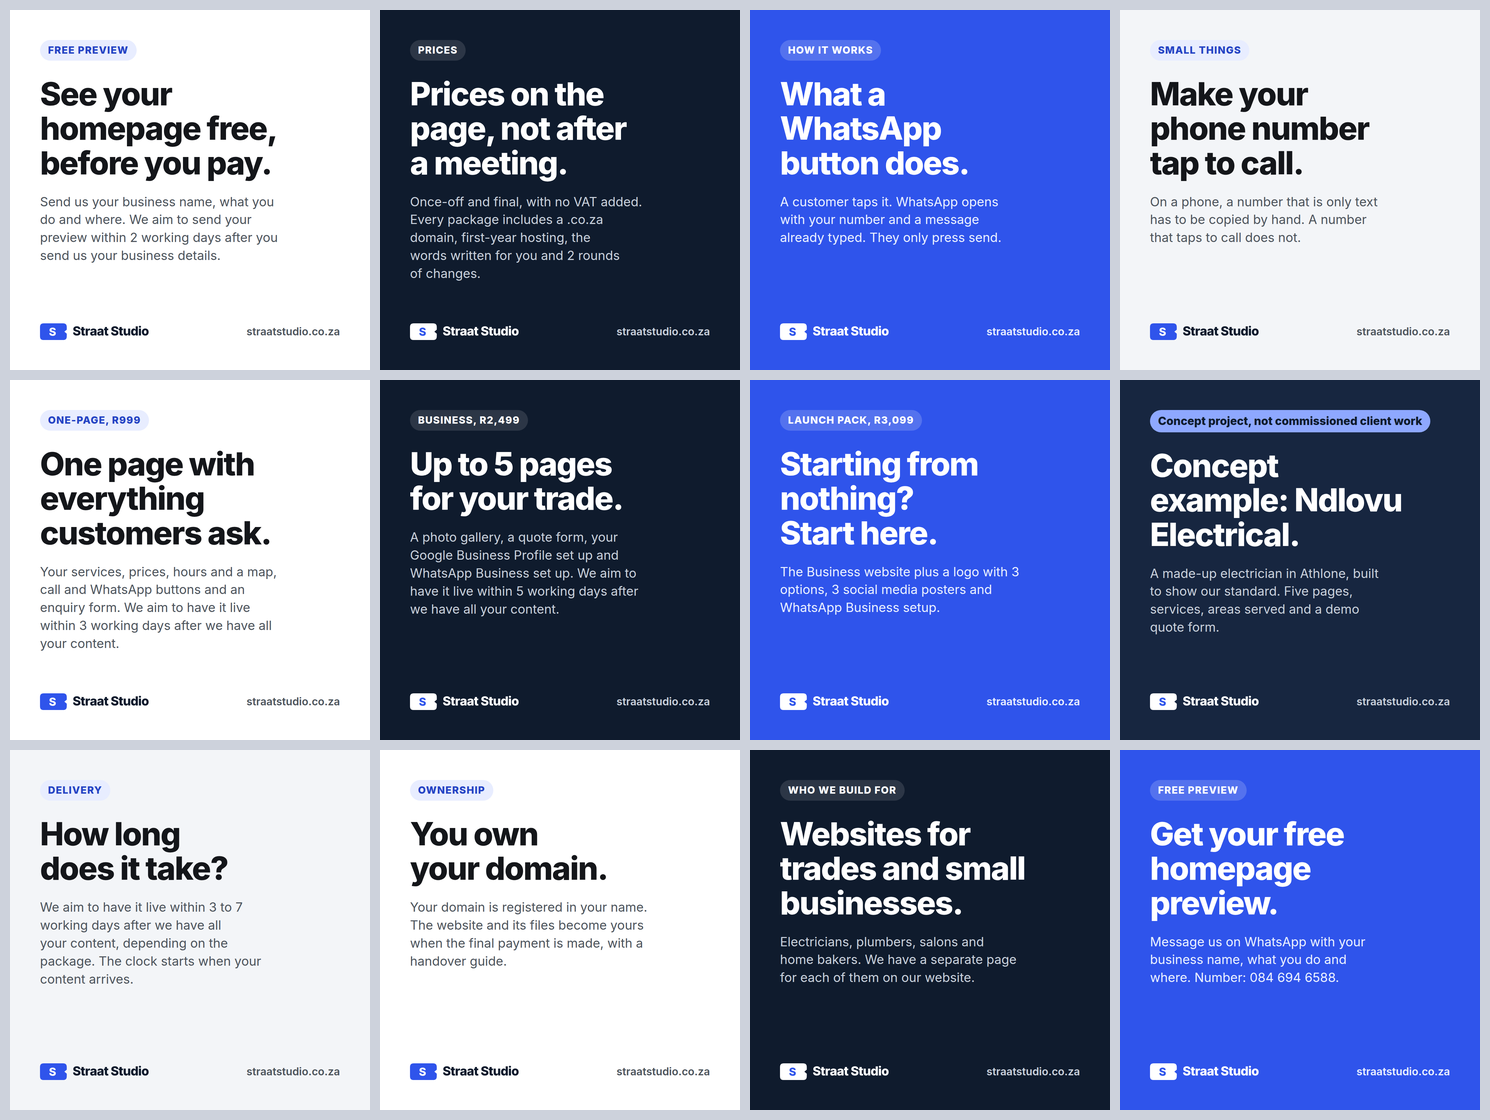
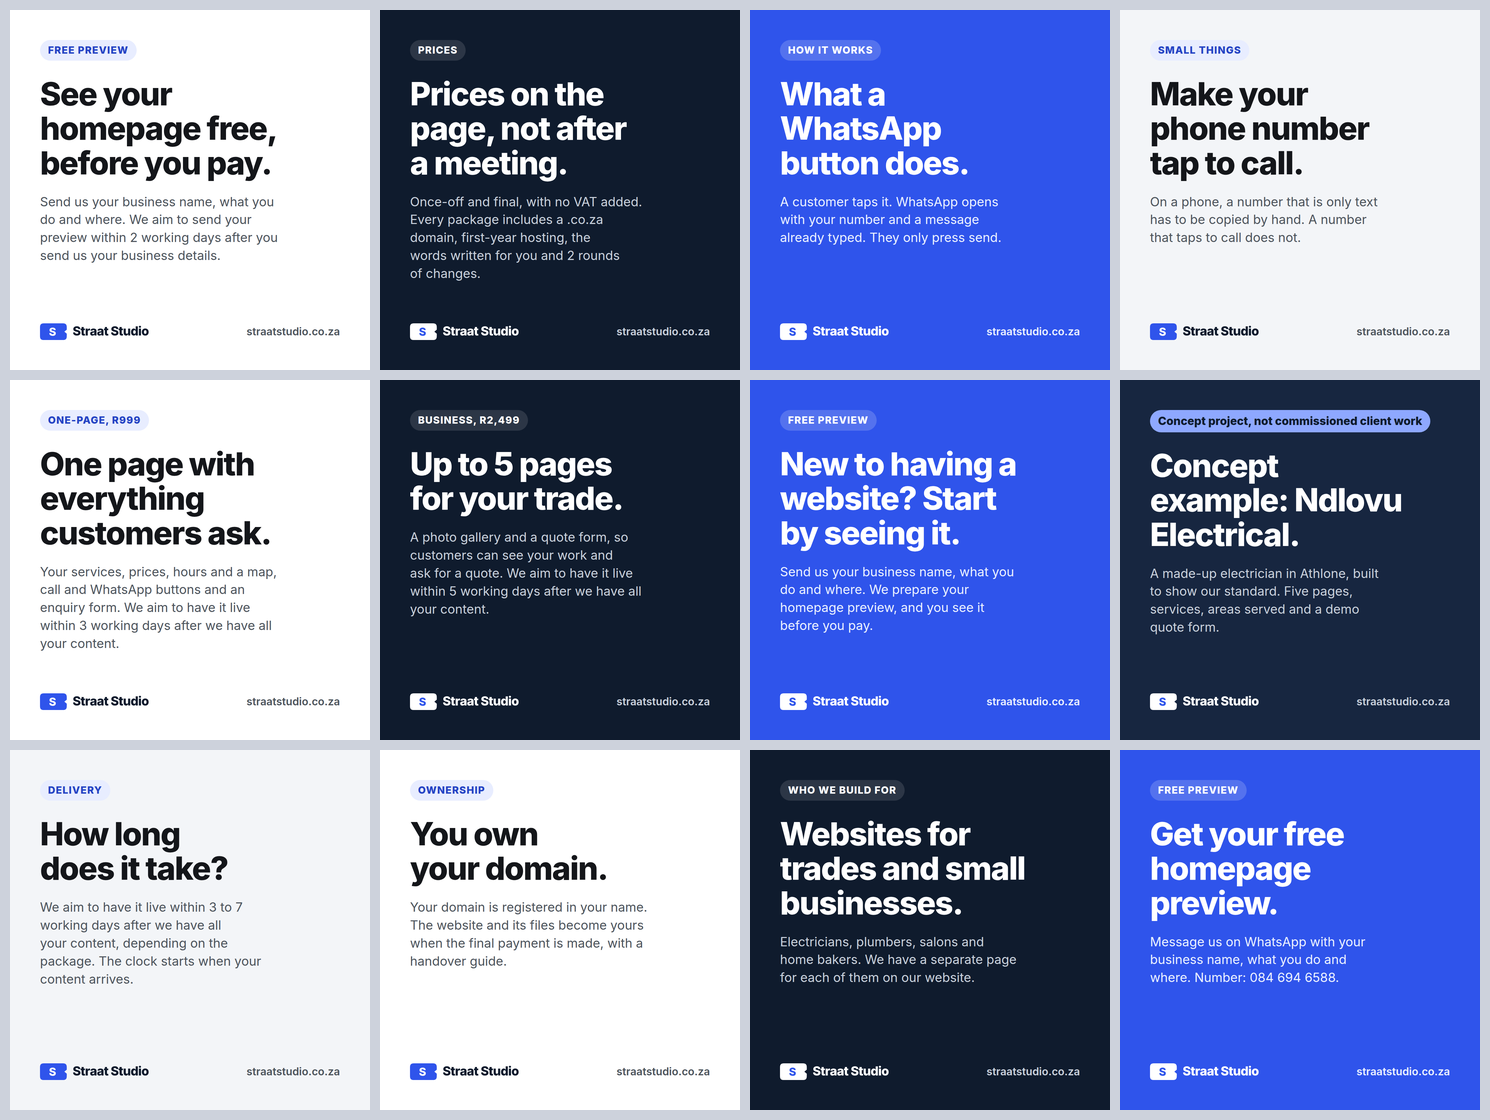
Rewrite two sample posts so they do not mention untested services

Changed region(s): [[0.5248, 0.3438, 0.6792, 0.5625], [0.2779, 0.4688, 0.4322, 0.5625]]

diff --git a/service-tests/LOG.md b/service-tests/LOG.md
@@ -47,3 +47,7 @@ Khulani minutes (all four): ____
 - Text extracted from every PDF and the posts and messages: zero em dashes or en dashes; zero banned words (best, fastest, guaranteed, leading, trusted by, number 1, most, cheapest, top-rated); the number 084 694 6588 appears and no other phone number appears anywhere (23 matches, all the same number); no old number (068 226 4586 in any form).
 - Facts used: prices, delivery days and package contents come from src/config; sentences come from the live site wording. No clients, reviews, statistics, years or team size.
 - Not checked: the text inside the PNG images was checked from its source strings, not by reading the pixels. The look of the PDFs on a physical printer.
+
+## Change on 28 November 2026 (branch fix-round-1)
+- Two posts rewritten so they no longer mention Google Business Profile setup, WhatsApp Business setup or "logo with 3 options" (posts 06 on 14 December and 07 on 16 December). Their dates and image file names are unchanged and the images, posts.txt, posting-calendar.csv and the contact sheets were regenerated. Post 06 now describes the Business website as up to 5 pages, a photo gallery and a quote form. Post 07 is now a free preview post.
+- The Launch Pack and Catalogue are no longer promoted in the sample month. The Catalogue package is marked "Coming soon" on the site.
